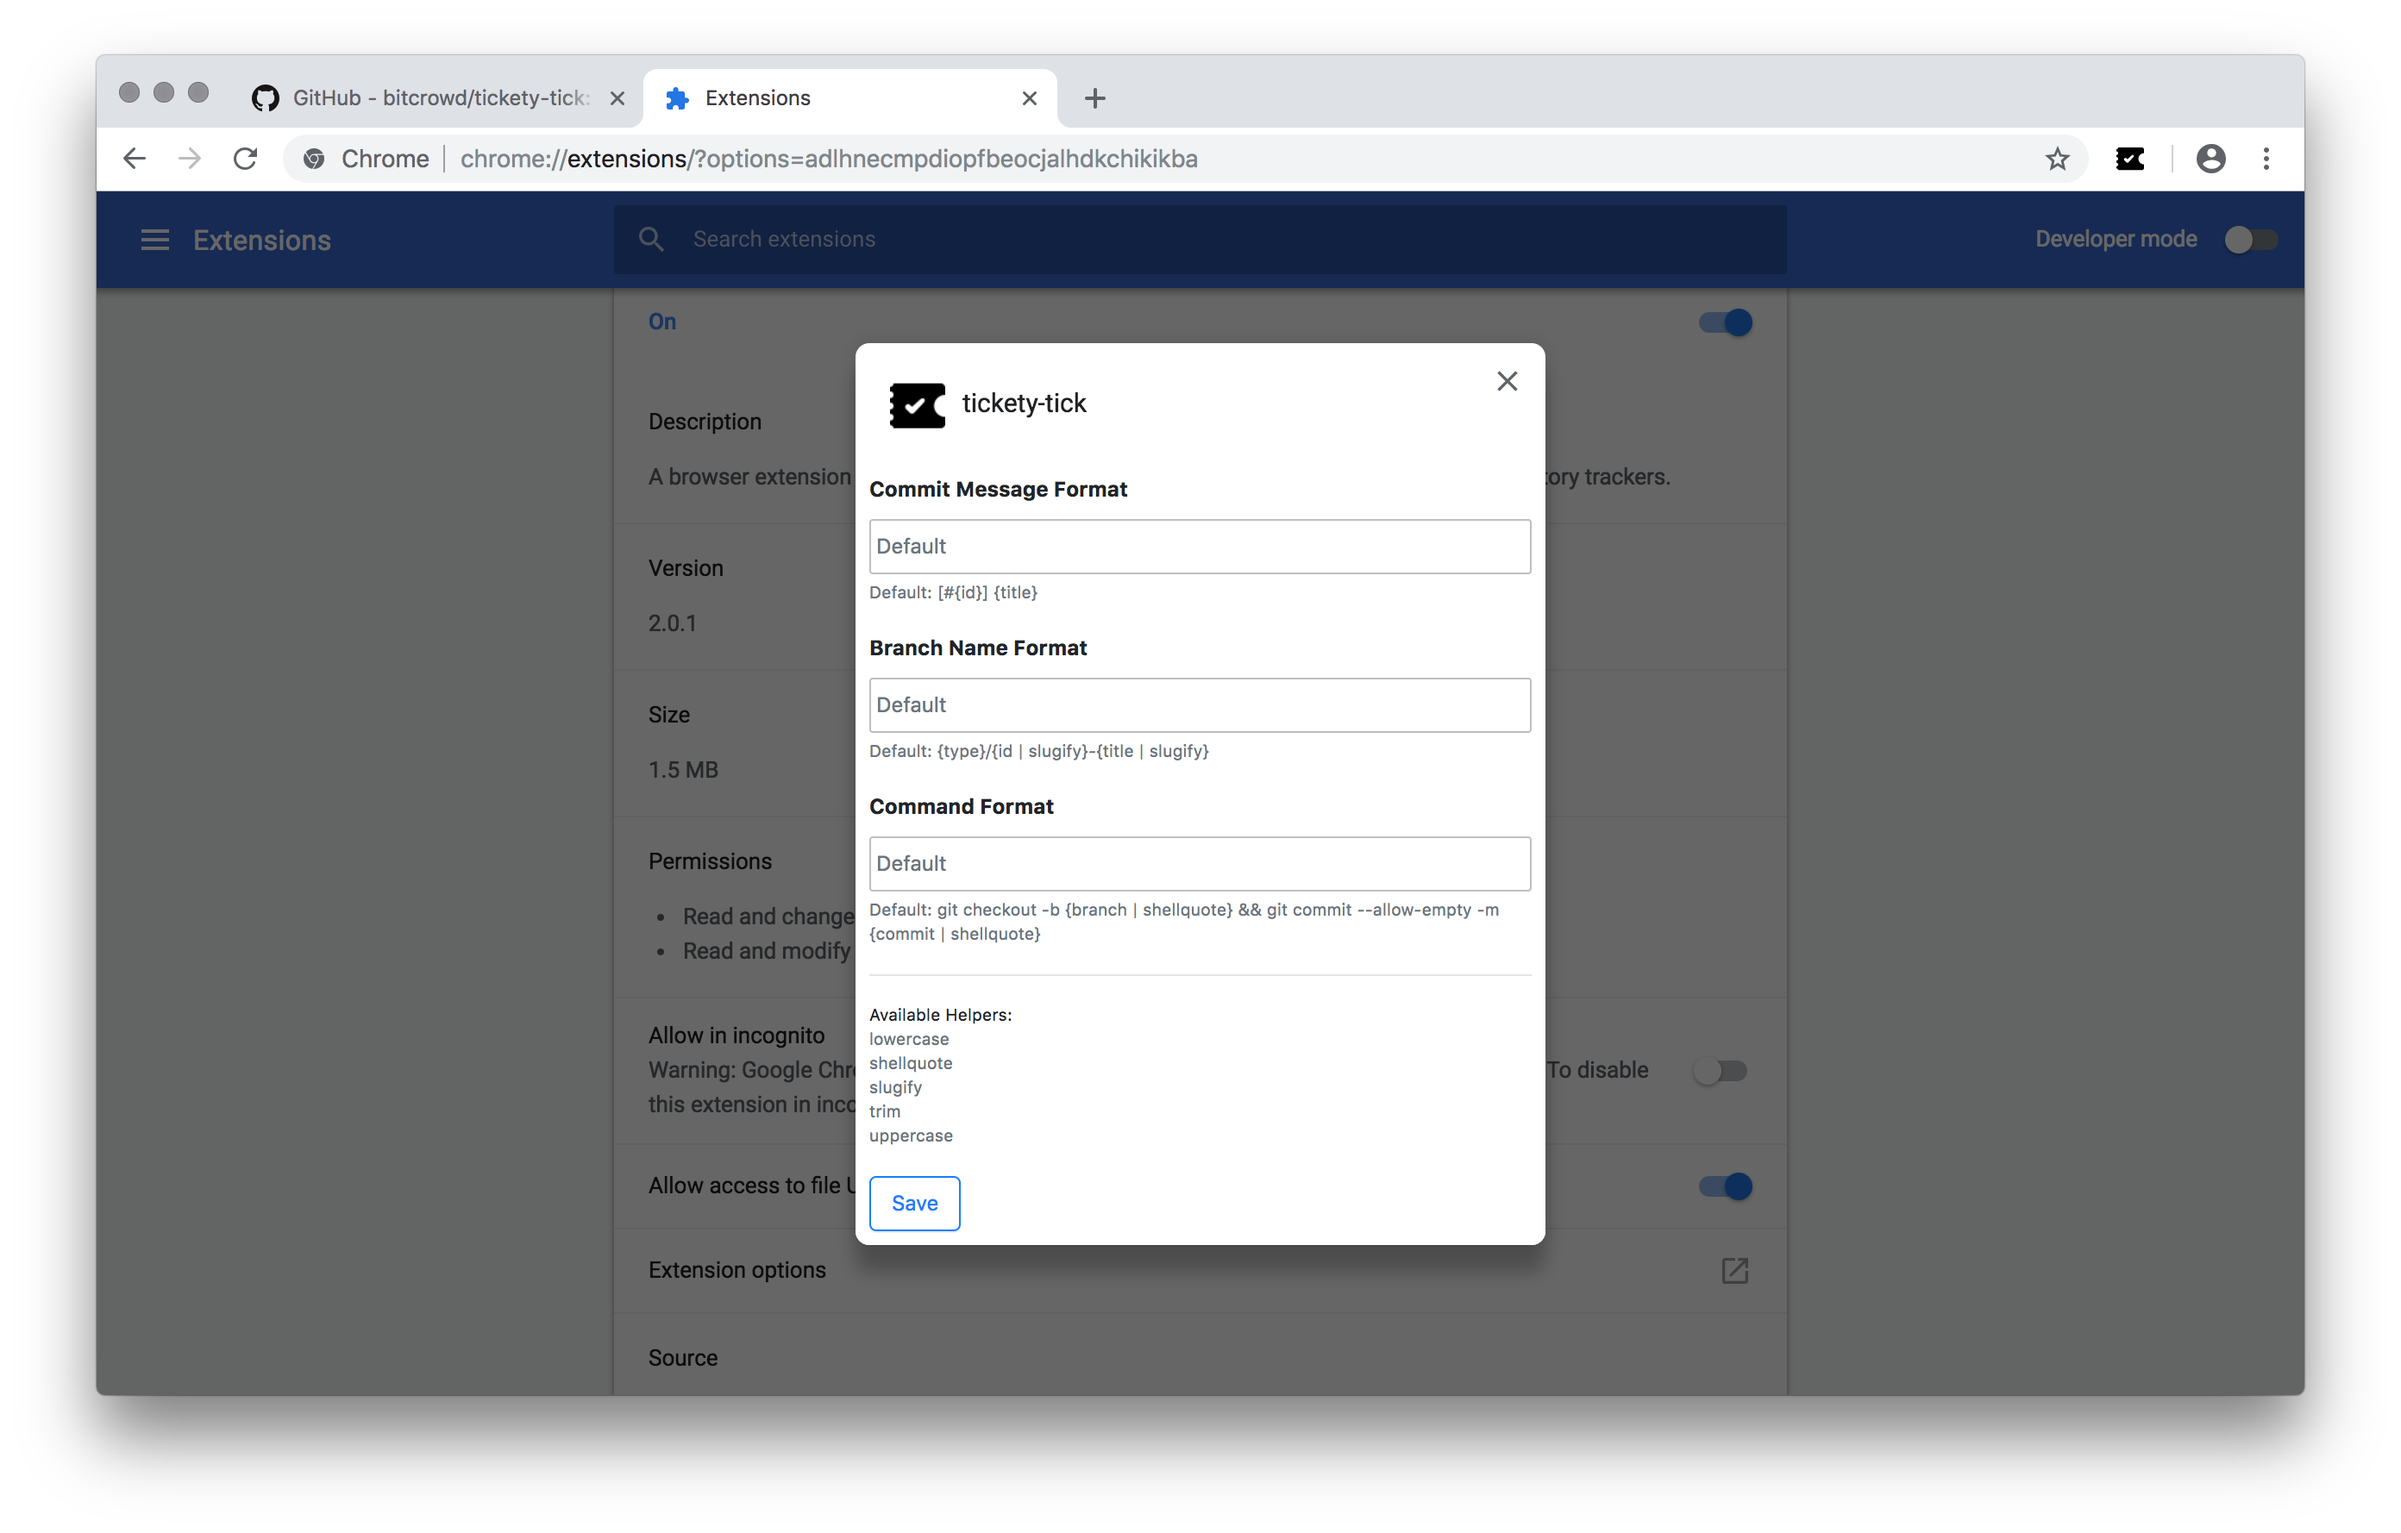
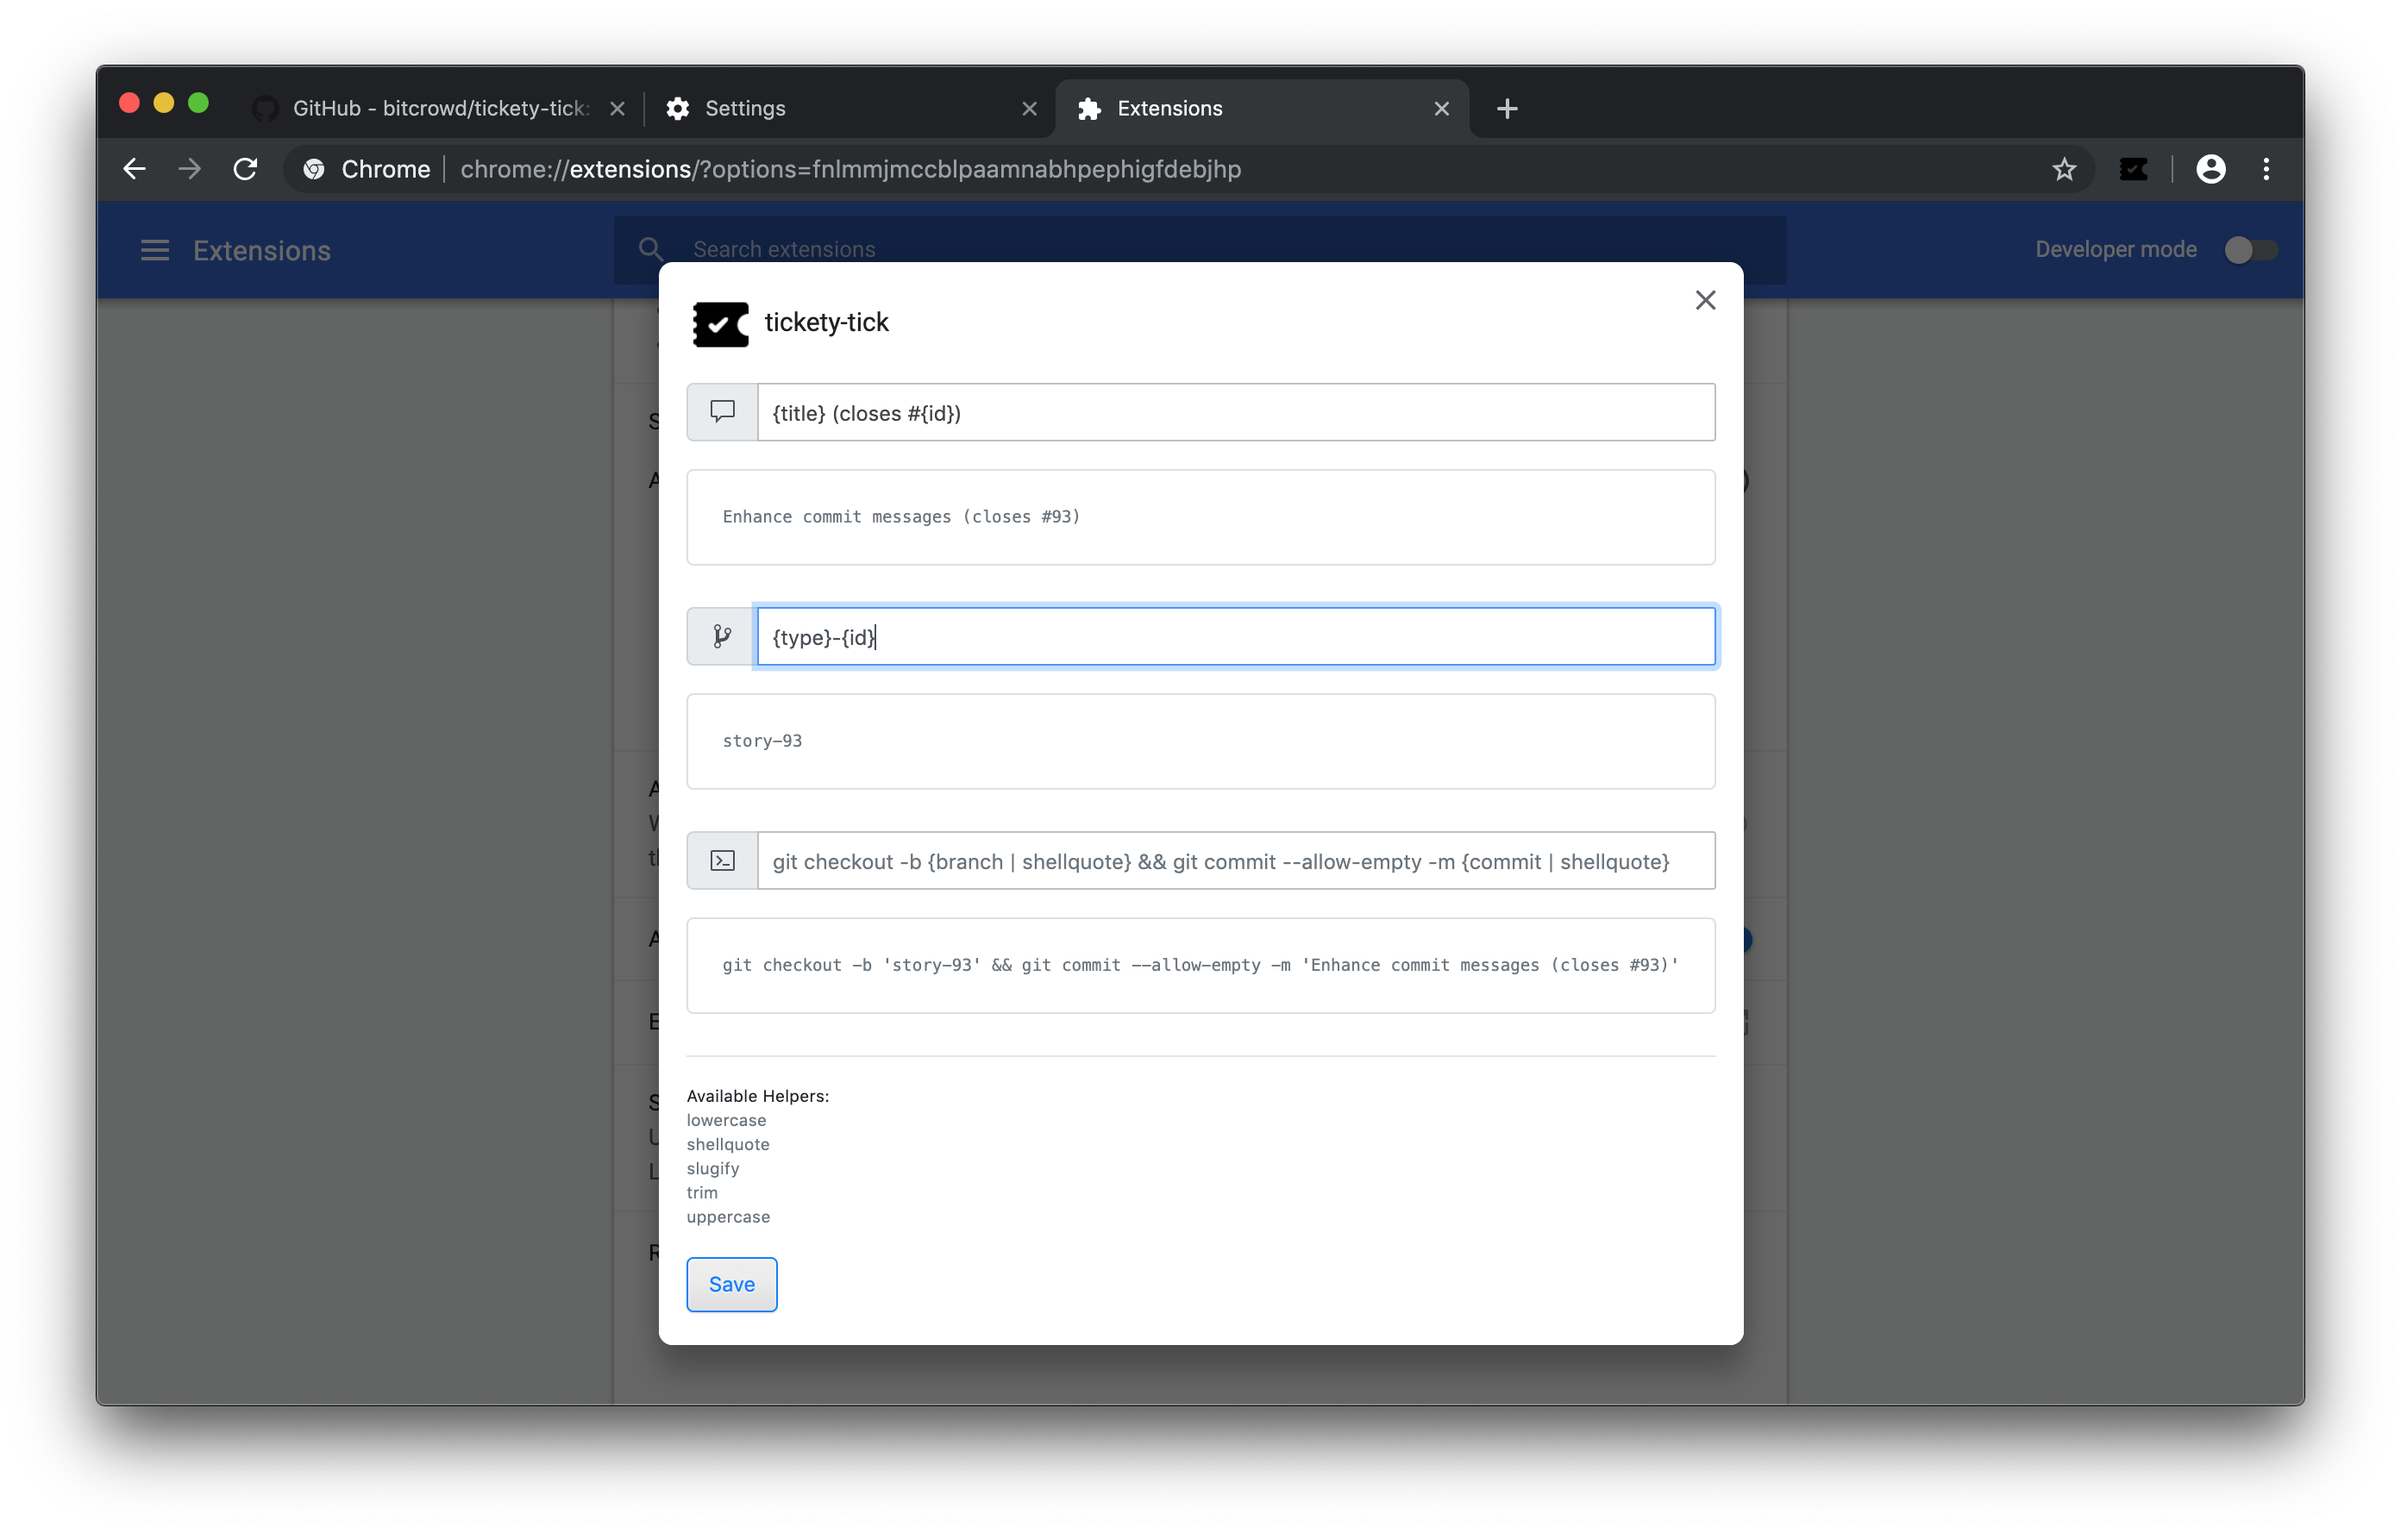
Improve options page

Changed region(s): [[0.0312, 0.0309, 0.9688, 0.9589]]

diff --git a/src/web-extension/options/components/form.jsx b/src/web-extension/options/components/form.jsx
@@ -1,8 +1,32 @@
 import React, { Component } from 'react';
 import PropTypes from 'prop-types';
 
-import { defaults, helpers } from '../../../common/format';
+import Octicon, { Comment, GitBranch, Terminal } from '@githubprimer/octicons-react';
+
+import format, { defaults, helpers } from '../../../common/format';
 import TemplateInput from './template-input';
+
+const demo = {
+  id: '93',
+  title: 'Enhance commit messages',
+  type: 'story',
+};
+
+function InputIcon({ icon }) {
+  return (
+    <Octicon
+      icon={icon}
+      size="small"
+      width="16"
+      height="16"
+      verticalAlign="text-top"
+    />
+  );
+}
+
+InputIcon.propTypes = {
+  icon: PropTypes.func.isRequired,
+};
 
 class Form extends Component {
   constructor(props) {
@@ -56,34 +80,37 @@ class Form extends Component {
   }
 
   render() {
-    const {
-      branch,
-      commit,
-      command,
-      loading,
-    } = this.state;
+    const { loading, ...templates } = this.state;
+
+    const fmt = format(templates);
 
     const fields = [
       {
+        icon: <InputIcon icon={Comment} />,
         label: 'Commit Message Format',
         id: 'commit-message-format',
         name: 'commit',
-        value: commit,
+        value: templates.commit,
         fallback: defaults.commit,
+        preview: fmt.commit(demo),
       },
       {
+        icon: <InputIcon icon={GitBranch} />,
         label: 'Branch Name Format',
         id: 'branch-name-format',
         name: 'branch',
-        value: branch,
+        value: templates.branch,
         fallback: defaults.branch,
+        preview: fmt.branch(demo),
       },
       {
+        icon: <InputIcon icon={Terminal} />,
         label: 'Command Format',
         id: 'command-format',
         name: 'command',
-        value: command,
+        value: templates.command,
         fallback: defaults.command,
+        preview: fmt.command(demo),
       },
     ];
 
@@ -97,7 +124,7 @@ class Form extends Component {
     );
 
     return (
-      <form onSubmit={this.handleSubmit}>
+      <form onSubmit={this.handleSubmit} className="mx-2 my-3">
         {fields.map(input)}
 
         <hr />
@@ -110,7 +137,9 @@ class Form extends Component {
         </div>
 
         <div className="mt-2">
-          <button className="btn btn-outline-primary" type="submit" disabled={loading}>Save</button>
+          <button className="btn btn-outline-primary" type="submit" disabled={loading}>
+            Save
+          </button>
         </div>
       </form>
     );

diff --git a/src/web-extension/options/components/template-input.jsx b/src/web-extension/options/components/template-input.jsx
@@ -6,30 +6,41 @@ function TemplateInput(props) {
     id,
     name,
     label,
+    icon,
     value,
     fallback,
     disabled,
     onChange,
+    preview,
   } = props;
 
   return (
-    <div className="form-group">
-      <label className="font-weight-bold" htmlFor={id}>{label}</label>
-      <input
-        className="form-control"
-        type="text"
-        id={id}
-        name={name}
-        value={value}
-        placeholder="Default"
-        disabled={disabled}
-        onChange={onChange}
-      />
-      <small className="form-text text-muted">
-        Default:
-        {' '}
-        {fallback}
-      </small>
+    <div className="form-group mb-4">
+      <div className="input-group mb-3">
+        <div className="input-group-prepend">
+          <label className="input-group-text" htmlFor={id}>
+            <span title={label}>
+              {icon}
+              <span className="sr-only">{label}</span>
+            </span>
+          </label>
+        </div>
+        <input
+          className="form-control px-2 py-3"
+          type="text"
+          id={id}
+          name={name}
+          value={value}
+          placeholder={fallback}
+          disabled={disabled}
+          onChange={onChange}
+        />
+      </div>
+      <div className="card">
+        <div className="card-body">
+          <pre className="small text-muted w-100 m-0 overflow-auto">{preview}</pre>
+        </div>
+      </div>
     </div>
   );
 }
@@ -40,8 +51,10 @@ TemplateInput.propTypes = {
   fallback: PropTypes.string.isRequired,
   id: PropTypes.string.isRequired,
   label: PropTypes.string.isRequired,
+  icon: PropTypes.node.isRequired,
   name: PropTypes.string.isRequired,
   onChange: PropTypes.func.isRequired,
+  preview: PropTypes.string.isRequired,
   value: PropTypes.string.isRequired,
 };
 

diff --git a/src/web-extension/options/components/template-input.test.jsx b/src/web-extension/options/components/template-input.test.jsx
@@ -9,10 +9,12 @@ describe('template-input', () => {
       id: 'template-input-id',
       name: 'template-input-name',
       label: 'template-label',
+      icon: <span>icon</span>,
       value: 'template-value',
       fallback: 'template-fallback',
       disabled: false,
       onChange: jest.fn(),
+      preview: 'template-preview',
     };
 
     const props = { ...defaults, ...overrides };
@@ -25,7 +27,15 @@ describe('template-input', () => {
     const wrapper = render({ id: 'id-1', label: 'Awesome Template Label' });
     const label = wrapper.find('label');
     expect(label.prop('htmlFor')).toBe('id-1');
-    expect(label.text()).toBe('Awesome Template Label');
+    expect(label.text()).toContain('Awesome Template Label');
+  });
+
+  it('renders an input label icon', () => {
+    const icon = <span>icon</span>;
+    const wrapper = render({ id: 'id-2', icon });
+    const label = wrapper.find('label');
+    expect(label.prop('htmlFor')).toBe('id-2');
+    expect(label.contains(icon)).toBe(true);
   });
 
   it('renders an input field', () => {
@@ -51,6 +61,7 @@ describe('template-input', () => {
 
   it('renders the default value used as a fallback', () => {
     const wrapper = render({ fallback: 'fbfbfb' });
-    expect(wrapper.text()).toContain('fbfbfb');
+    const input = wrapper.find('input');
+    expect(input.prop('placeholder')).toContain('fbfbfb');
   });
 });

diff --git a/src/web-extension/options/components/form.test.jsx b/src/web-extension/options/components/form.test.jsx
@@ -34,11 +34,13 @@ describe('form', () => {
     const field = input(wrapper, 'branch');
 
     expect(field.props()).toEqual({
+      icon: expect.any(Object),
       label: 'Branch Name Format',
       id: 'branch-name-format',
       name: 'branch',
       value: '',
       fallback: fallbacks.branch,
+      preview: expect.any(String),
       disabled: true,
       onChange: instance.handleChanged,
     });
@@ -51,11 +53,13 @@ describe('form', () => {
     const field = input(wrapper, 'commit');
 
     expect(field.props()).toEqual({
+      icon: expect.any(Object),
       label: 'Commit Message Format',
       id: 'commit-message-format',
       name: 'commit',
       value: '',
       fallback: fallbacks.commit,
+      preview: expect.any(String),
       disabled: true,
       onChange: instance.handleChanged,
     });
@@ -68,11 +72,13 @@ describe('form', () => {
     const field = input(wrapper, 'command');
 
     expect(field.props()).toEqual({
+      icon: expect.any(Object),
       label: 'Command Format',
       id: 'command-format',
       name: 'command',
       value: '',
       fallback: fallbacks.command,
+      preview: expect.any(String),
       disabled: true,
       onChange: instance.handleChanged,
     });

diff --git a/src/web-extension/options/options.scss b/src/web-extension/options/options.scss
@@ -16,9 +16,11 @@
 @import "~bootstrap/scss/type";
 @import "~bootstrap/scss/utilities";
 
-// Form classes
+// Basic components
 @import "~bootstrap/scss/buttons";
+@import "~bootstrap/scss/card";
 @import "~bootstrap/scss/forms";
+@import "~bootstrap/scss/input-group";
 
 // Options style
 @import "styles/additions";
